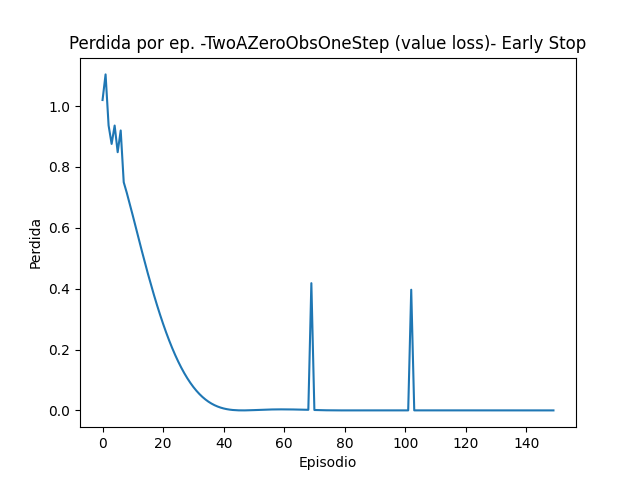
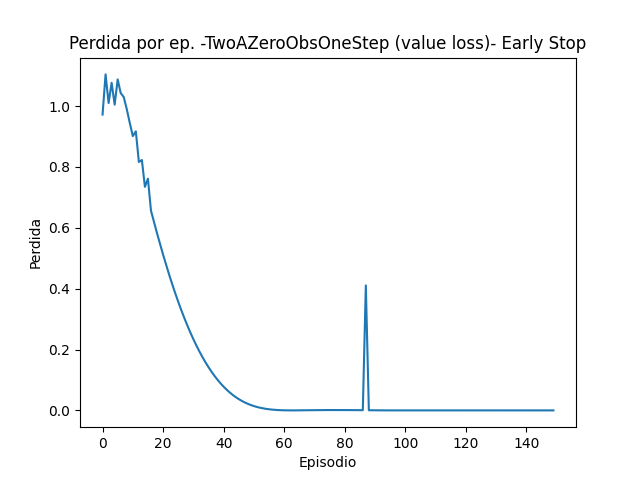
intro and environments in README

diff --git a/code/main.py b/code/main.py
@@ -184,7 +184,7 @@ def compare_and_plot(env_name, episodes=500, batch_size=10, seeds=(0,1,2,3,4)):
 
 if __name__ == "__main__":
     # Entrenar y probar en TwoAZeroObsOneStepEnv
-    # train_and_test_env("TwoAZeroObsOneStep", episodes=150, obs=np.array([0.0]), batch_size=10, early_stop=False)
+    train_and_test_env("TwoAZeroObsOneStep", episodes=150, obs=np.array([0.0]), batch_size=10, early_stop=False)
 
     # Entrenar y probar en TwoARandomObsOneStepEnv
     # train_and_test_env("TwoARandomObsOneStepEnv", episodes=150, obs=np.array([1.0, 0.0]), batch_size=10, early_stop=False)
@@ -199,7 +199,7 @@ if __name__ == "__main__":
     # train_and_test_env("CartPole-v1", episodes=500, obs=np.array([0.0, 0.0, 0.0, 0.0]), batch_size=10, early_stop=False)
 
     # Entrenar y probar en Acrobot-v1
-    train_and_test_env("Acrobot-v1", episodes=500, obs=np.array([0.0, 0.0, 0.0, 0.0, 0.0, 0.0]), batch_size=10, early_stop=False)
+    # train_and_test_env("Acrobot-v1", episodes=500, obs=np.array([0.0, 0.0, 0.0, 0.0, 0.0, 0.0]), batch_size=10, early_stop=False)
 
     #compare_and_plot("CartPole-v1", episodes=500, batch_size=10, seeds=(0,1,2,3,4))
     # compare_and_plot("Acrobot-v1", episodes=500, batch_size=10, seeds=[0, 1, 2])

diff --git a/code/utils.py b/code/utils.py
@@ -79,11 +79,11 @@ def evaluate_policy_mean(env_name, episodes: int = 200, policy_fn = random_polic
     """Promedia el retorno no descontado de una politica dada."""
     env = envs[env_name]()
     rets = []
-    for _ in range(episodes):
-        try:
+    try:
+        for _ in range(episodes):
             rets.append(calculate_return(env, policy_fn))
-        finally:
-            env.close()
+    finally:
+        env.close()
     return float(np.mean(rets))
 
 

diff --git a/README.md b/README.md
@@ -1,0 +1,50 @@
+## Introduccion
+
+Este repositorio implementa y evalua el algoritmo REINFORCE (gradiente de politica) con y sin baseline aprendido, sobre seis entornos: cuatro custom y dos de Gymnasium. Los objetivos principales fueron:
+
+- Entrenar una política paramétrica $\pi_\theta (a|s)$
+- Incorporar una red de valor $V_\phi (s)$ como baseline para reducir la varianza y acelerar la convergencia.
+- Definir criterios de convergencia por entorno.
+- Estudiar el desempeno del agente entrenado en cada entorno, comparando el caso sin y con baseline.
+
+## Entornos
+
+### Entornos custom
+
+- Todos los ambientes custom va a heredar de gymnasium.Env, que marca la estructura que todos los entornos tienen que seguir.
+- Exponen:
+    - observation_space
+    - action_space
+- Implementan:
+    - reset → (obs, info): resetea el entorno y devuelve la observacion inicial y un diccionario info (vacio en nuestros casos).
+    - step → (obs, reward, terminated, truncated, info): recibe una accion y devuelve: la siguiente observacion, la recompensa, si el episodio termino (terminated o truncated) y el diccionario de info.
+- Los estados son arreglos one-hot, con un 1 en la posicion del estado actual.
+
+#### 1. TwoAZeroObsOneStepEnv
+En este entorno hay un unico estado.
+- Obs: constante [[0]].
+- Acciones: 2 (0 o 1).
+- Duración: 1 paso.
+- Reward: +1 si acción “buena”, −1 si “mala”.
+
+#### 2. TwoARandomObsOneStepEnv
+En este entorno hay dos estados.
+- Obs: estado incial aleatorio entre [[1,0]] y [[0,1]].
+- Acciones: 2 (0 o 1).
+- Duración: 1 paso.
+- Reward: +1 si acción “buena”, −1 si “mala”. La acción “buena” depende del estado inicial.
+
+#### 3. LineWorldEasyEnv
+En este entorno hay 6 estados consecutivos.
+- Obs: estado inicial fijo [[1,0,0,0,0,0]].
+- Acciones: 2 (0=izquierda, 1=derecha).
+- Duración: hasta alcanzar el objetivo. 
+- Reward: +1 al alcanzar el objetivo ([[0,0,0,0,0,1]]), 0 en otro caso.
+
+#### 4. LineWorldMirrorEnv
+En este entorno hay 4 estados consecutivos.
+- Obs: estado inicial fijo [[1,0,0,0]].
+- Acciones: 2 (0=izquierda, 1=derecha). En el segundo estado las acciones están invertidas (derecha lleva a la izquierda y viceversa).
+- Duración: hasta alcanzar el objetivo ([[0,0,0,1]]).
+- Reward: -1 por paso.
+
